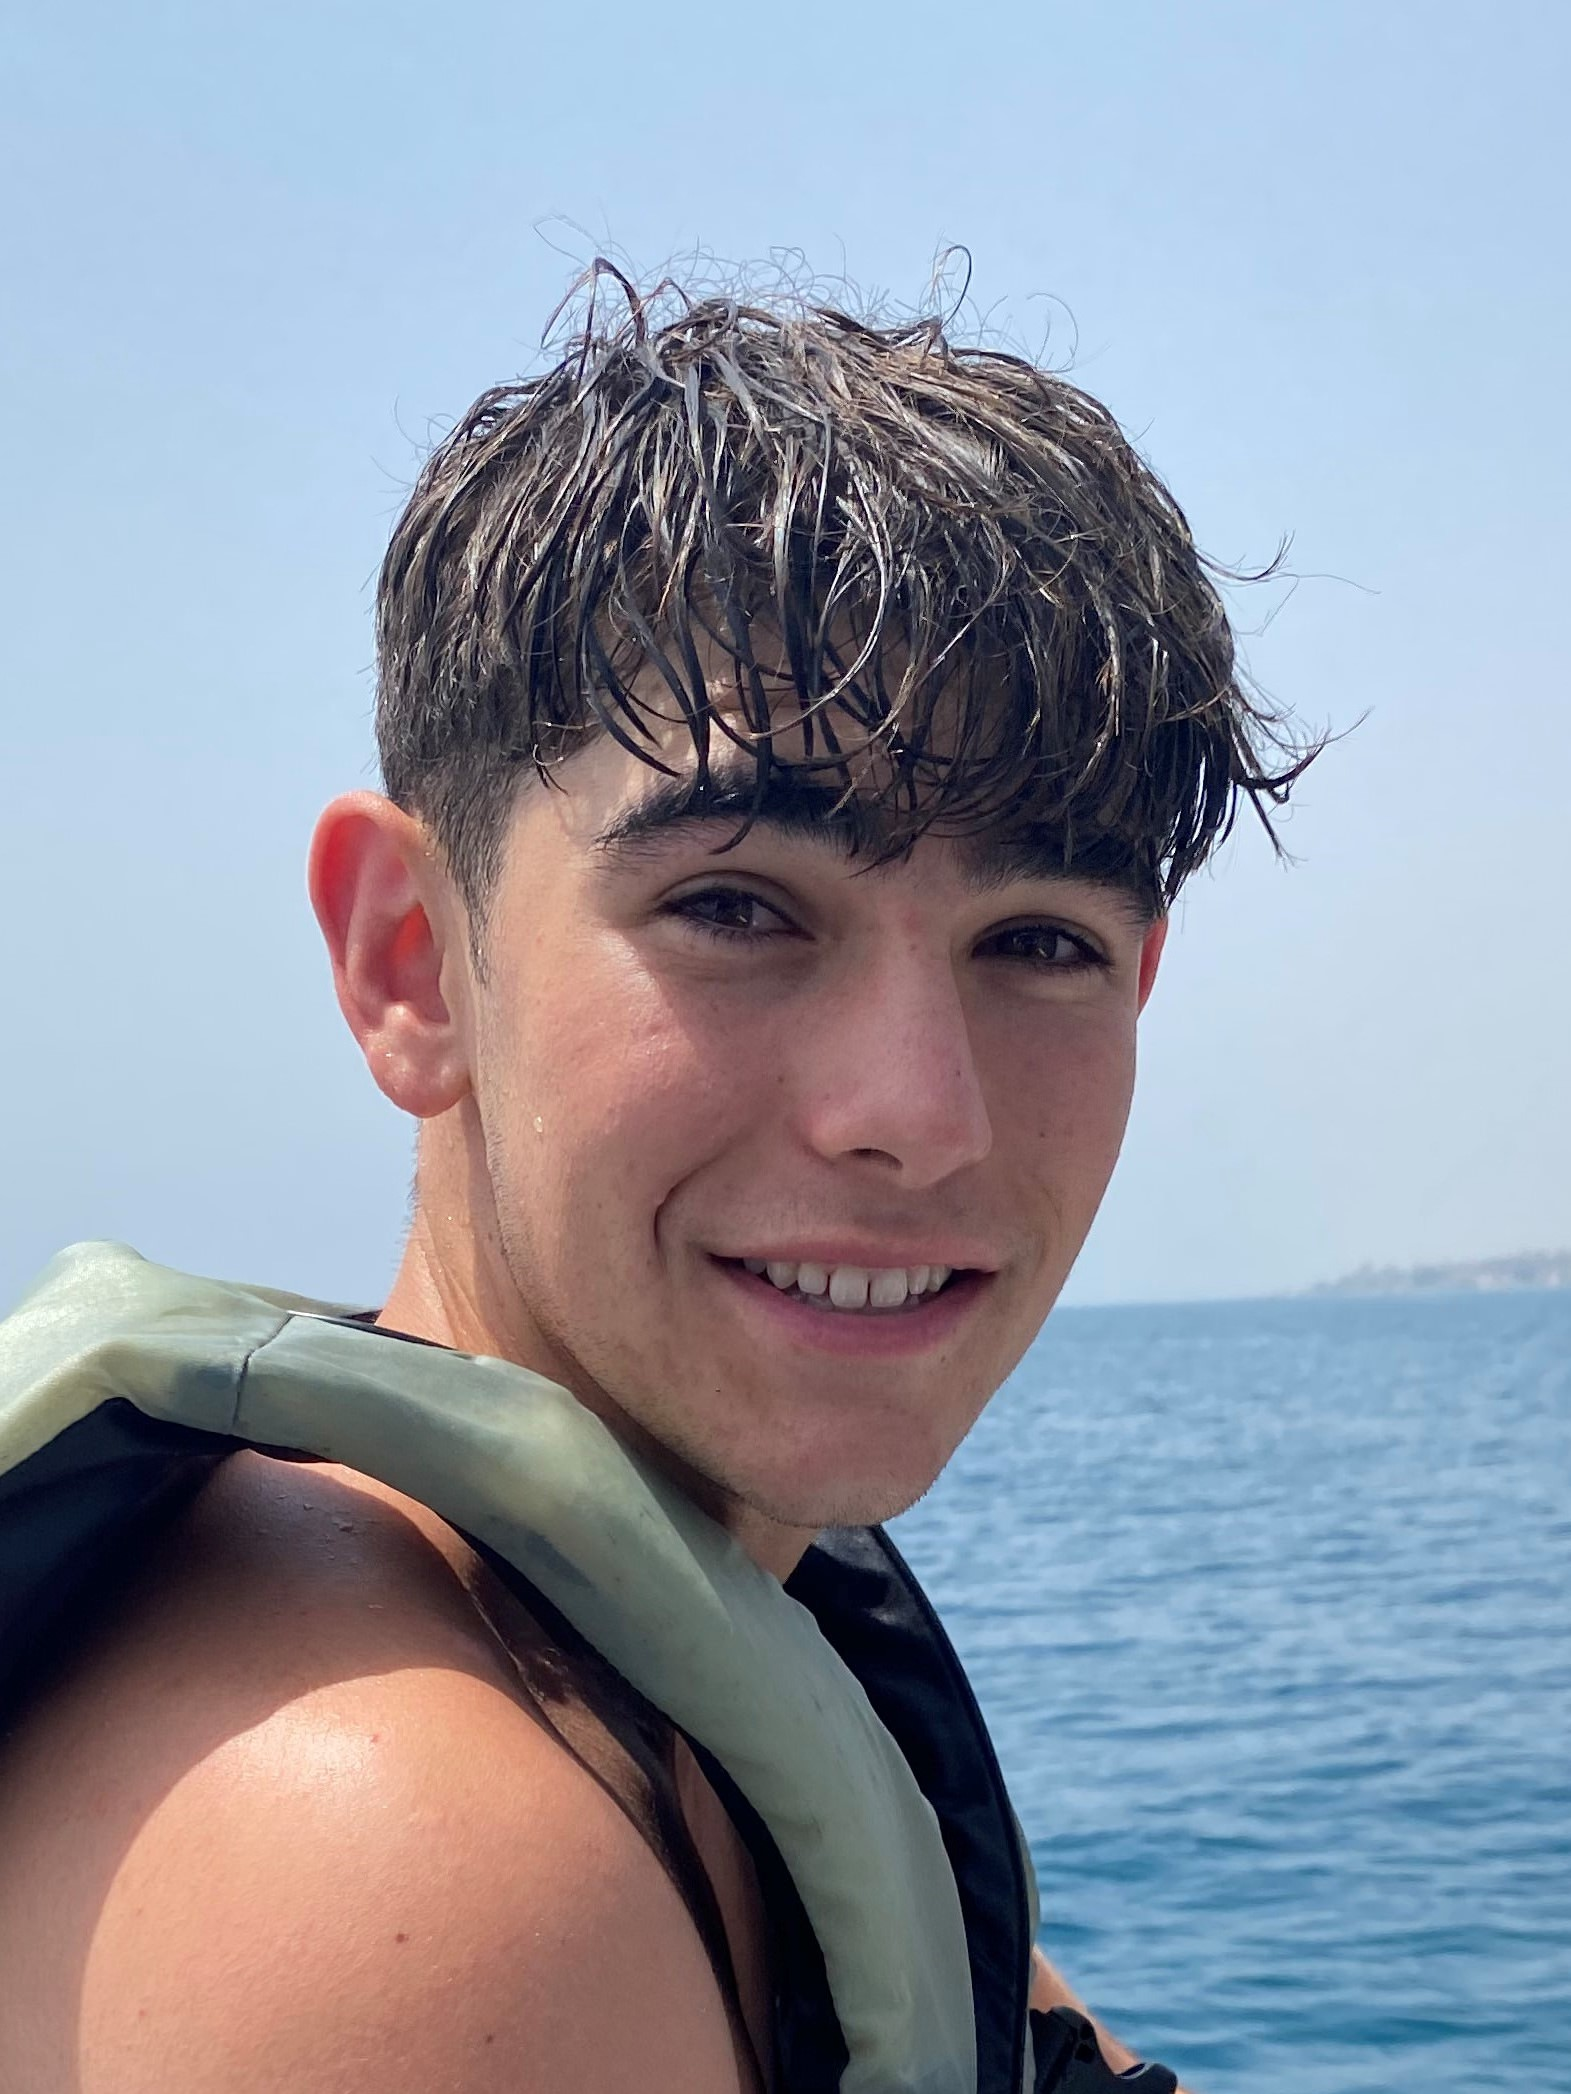
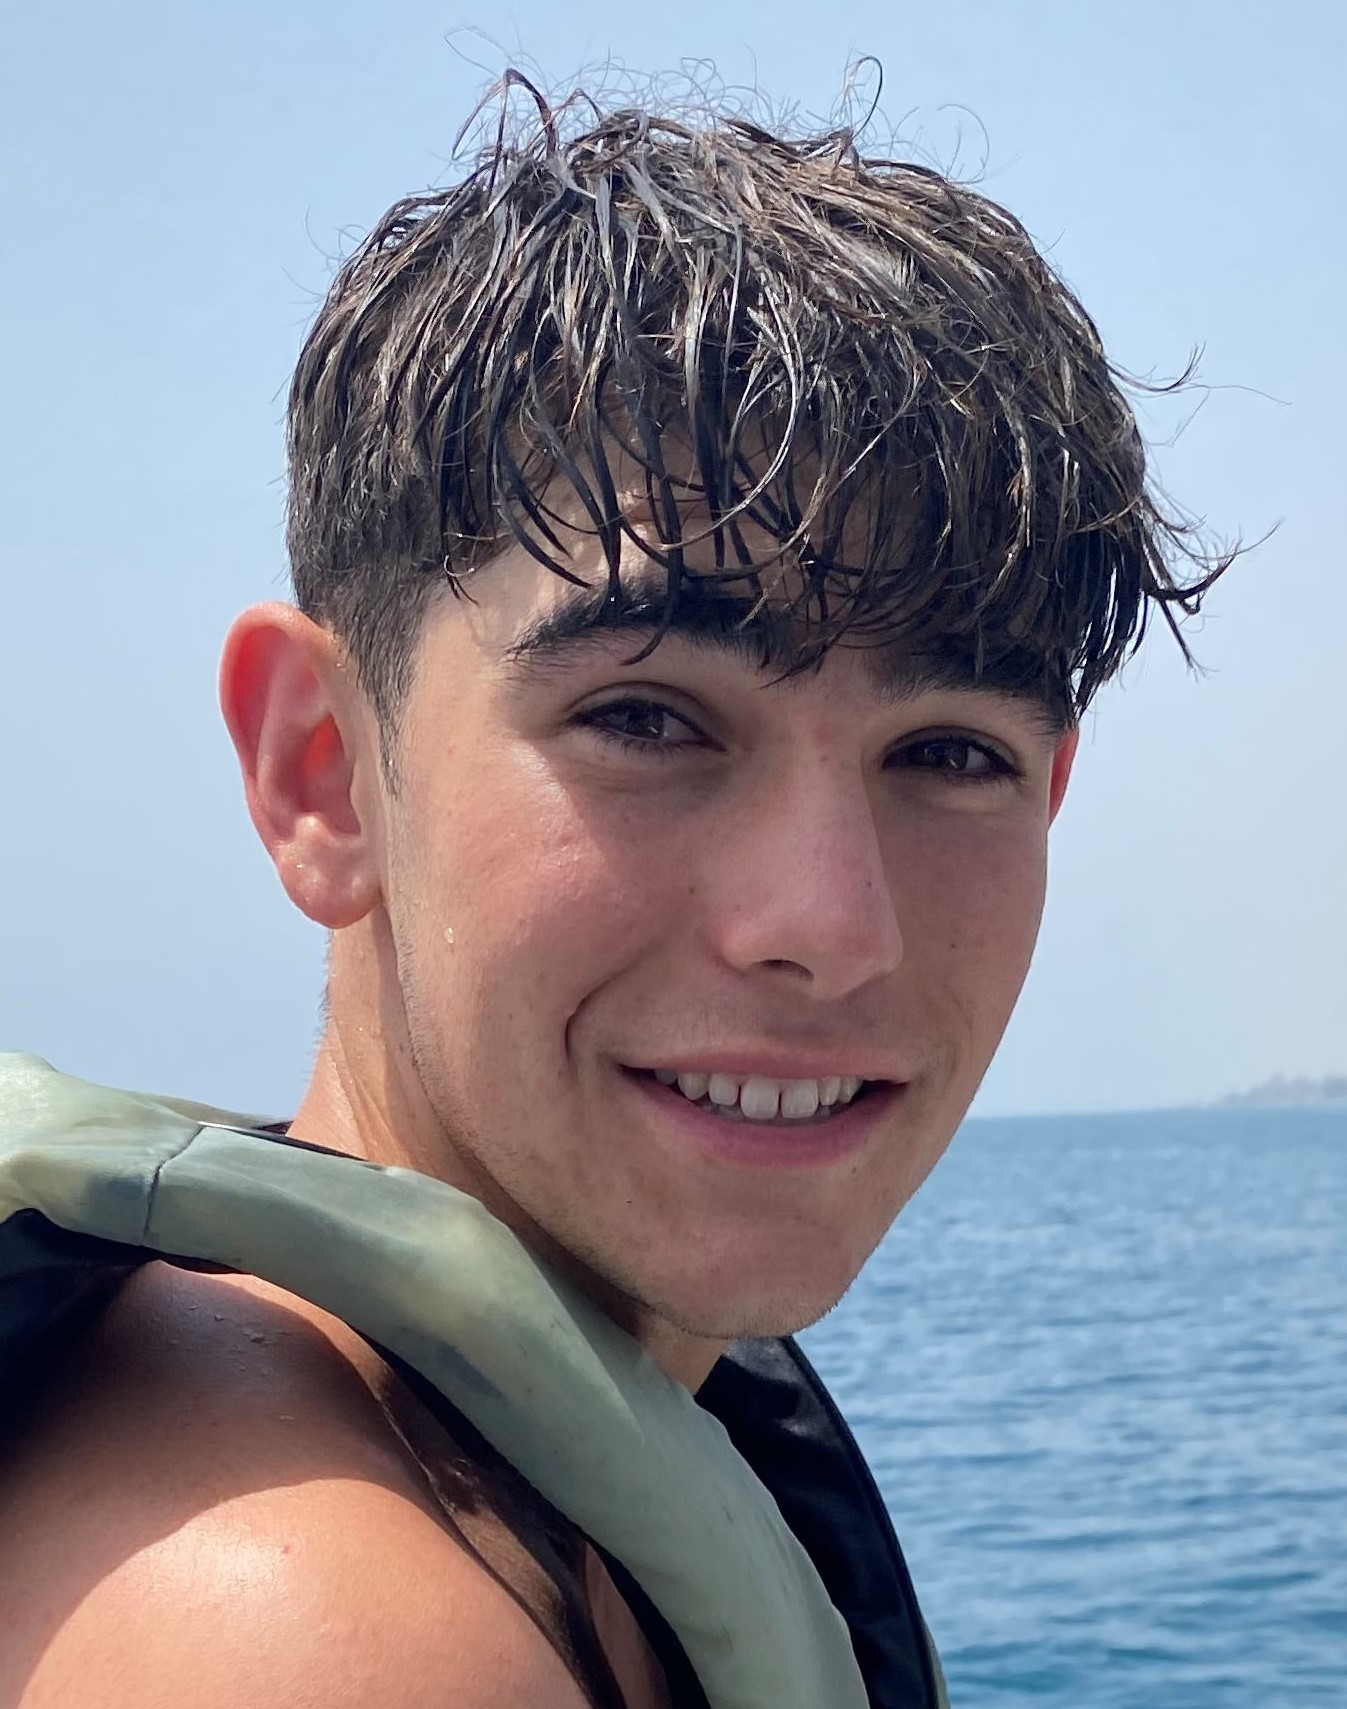
Changed wording and pictures are now webp

diff --git a/index.html b/index.html
@@ -66,8 +66,8 @@
       
     <!-- Header -->
     <header id="header" class="header">
-        <img class="decoration-star" src="client/assets/images/decoration-star.svg" alt="alternative">
-        <img class="decoration-star-2" src="client/assets/images/decoration-star.svg" alt="alternative">
+        <img class="decoration-star" src="client/assets/images/decoration-star.svg" alt="background decoration">
+        <img class="decoration-star-2" src="client/assets/images/decoration-star.svg" alt="background decoration">
         <div class="container">
             <div class="row">
                 <div class="col-lg-8 col-xl-7">
@@ -91,7 +91,7 @@
             <div class="row">
                 <div class="col-xl-9">
                     <h2>Who am I?</h2>
-                    <p>My name is Joshua Thompson and this personal portfolio website is my attempt to display all of my hobbies, interests and projects! I hope you find it interesting and would love to hear any great insights or queries at <i>joshua.thomspon@durham.ac.uk</i> </p>
+                    <p>My name is Joshua Thompson and this personal portfolio website is my attempt to display all of my hobbies, interests and projects! I hope you find it interesting and I would love to hear any great insights or queries at <i>joshua.thomspon@durham.ac.uk</i> </p>
                 </div> <!-- end of col -->
             </div> <!-- end of row -->
         </div> <!-- end of container -->
@@ -101,12 +101,12 @@
 
     <!-- Details 1 -->
     <div id="details" class="basic-2">
-        <img class="decoration-star" src="client/assets/images/decoration-star.svg" alt="alternative">
+        <img class="decoration-star" src="client/assets/images/decoration-star.svg" alt="background decoration">
         <div class="container">
             <div class="row">
                 <div class="col-lg-6 col-xl-5">
                     <div class="image-container">
-                        <img class="img-fluid rounded-3" src="client/assets/images/k-mitch-hodge-nnWG3Uulye4-unsplash.jpg" alt="alternative">
+                        <img class="img-fluid rounded-3" src="client/assets/images/k-mitch-hodge-nnWG3Uulye4-unsplash.webp" alt="Durham Cathedral">
                     </div> <!-- end of image-container -->
                 </div> <!-- end of col -->
                 <div class="col-lg-6 col-xl-7">
@@ -115,15 +115,15 @@
                         <ul class="list-unstyled li-space-lg">
                             <li class="d-flex">
                                 <i class="fas fa-square"></i>
-                                <div class="flex-grow-1">I am currently in my first year of University, studying a Joint Honours degree in <strong>Mathematics and Computer Science</strong> at <strong> Durham University</strong></div>
+                                <div class="flex-grow-1">I am currently in the first year of University, studying for a Joint Honours degree in <strong>Mathematics and Computer Science</strong> at <strong> Durham University.</strong></div>
                             </li>
                             <li class="d-flex">
                               <i class="fas fa-square"></i>
-                                <div class="flex-grow-1">I am on the Master's degree program, so my expected graduation date is 2026.</div>
+                                <div class="flex-grow-1">I am on the Master's degree program, and am expected to graduate in 2026.</div>
                             </li>
                             <li class="d-flex">
                                 <i class="fas fa-square"></i>
-                                <div class="flex-grow-1">I have particular interest in AI, mathematical modelling and the applied side of mathematics. I am intrigued in using technology for environmental/world good, such as green energy solutions and modelling of worldwide events. hence, I always favour an altruistic viewpoint with my decision-making.</div>
+                                <div class="flex-grow-1">Particular interests of mine include AI, mathematical modelling and the applied side of mathematics. I am intrigued in altruistic and sustainable uses for technology, such as green energy solutions and modelling of worldwide events. This philantrhopic desire is always apparent in my decision-making.</div>
                             </li>
                             <li class="d-flex">
                                 <i class="fas fa-square"></i>
@@ -131,7 +131,7 @@
                             </li>
                             <li class="d-flex">
                                 <i class="fas fa-square"></i>
-                                <div class="flex-grow-1">Further information about my education can be found on my <a href="https://www.linkedin.com/in/joshuamichaelthompson">LinkedIn</a> account</div>
+                                <div class="flex-grow-1">For further information about my educatio, vist my <a href="https://www.linkedin.com/in/joshuamichaelthompson">LinkedIn</a> account</div>
                             </li>
                         </ul>
                     </div> <!-- end of text-container -->
@@ -147,7 +147,7 @@
         <div class="container">
                     <div class="text-container">
                         <h2>Societies and Groups</h2>
-                        <h4>Sports that I play</h4>
+                        <h4>Sporting Pursuits</h4>
                         <ul class="list-unstyled li-space-lg">
                           <li class="d-flex">
                               <i class="fas fa-square"></i>
@@ -174,7 +174,7 @@
                                 <div class="flex-grow-1">Code Club</div>
                                 </li>
                                   <li class="d-flex">
-                                    <div class="flex-grow-1">Weekly sessions helping to teach children aged 8-14 to code</div>
+                                    <div class="flex-grow-1">Weekly sessions helping to improve 8-14 year old children's code skills</div>
                                   </li>
                             <li class="d-flex">
                                 <i class="fas fa-square"></i>
@@ -195,23 +195,23 @@
 
     <!-- Details 2 -->
     <div class="basic-3">
-        <img class="decoration-star" src="client/assets/images/decoration-star.svg" alt="alternative">
+        <img class="decoration-star" src="client/assets/images/decoration-star.svg" alt="background decoration">
         <div class="container">
             <div class="row">
                 <div class="col-lg-6 col-xl-7">
                     <div class="text-container">
                         <h2>Work Experience</h2>
                         <h5>Maths Tutor</h5>
-                        <p>During A levels, I did some GCSE tutoring for people local to me. This improved my ability to explain my thinking to students, and be patient.</p>
+                        <p>During A levels, I tutored many local GCSE students. This improved my patience and communication skills, which are both integral to the learning process.</p>
                         <h5>Work Experience at St James's Place</h5>
-                        <p>Here, I engaged with employees and set up several meetings in order to get an understanding of the financial advising business. I also visited the investing floor where I took a particular interest in ESG investing. I was able to have a meeting with Oisin Canney, who perked my interest in sustainable investing further; particularly in the view of agricultural technology</p>
+                        <p>Here, I engaged with employees and set up several meetings in order to get an understanding of the financial advising business. Visiting the investing floor left me enthused by ESG investing. I was able to meet a man named Oisin Canney, who peaked my interest in sustainable investing further; in particular, the use of modern agricultural technology</p>
                         <h5>Student Intern at OakNorth Bank</h5>
-                        <p>I took part in reading legal contracts and improved my analysis and high-level thinking skills. I also got to speak to a few software engineers who gave me some great insights into a day in the life of an engineer.</p>
+                        <p>I took part in reading legal contracts and improved my analysis and high-level thinking skills. This experience gave me the opportunity to speak to a few software engineers who gave me some great insights into a day in the life of an engineer.</p>
                       </div> <!-- end of text-container -->
                 </div> <!-- end of col -->
                 <div class="col-lg-6 col-xl-5">
                     <div class="image-container">
-                        <img class="img-fluid rounded-3" src="client/assets/images/Prefect Photo.jpg" alt="prefect Photo">
+                        <img class="img-fluid rounded-3" src="client/assets/images/Prefect-Photo.webp" alt="prefect Photo">
                     </div> <!-- end of image-container -->
                 </div> <!-- end of col -->
             </div> <!-- end of row -->
@@ -232,7 +232,7 @@
 
                     <!-- Card -->
                     <div class="card">
-                        <img class="img-fluid" src="client/assets/images/carson-masterson-0mXw-dvuLok-unsplash.jpg" alt="alternative">
+                        <img class="img-fluid" src="client/assets/images/carson-masterson-0mXw-dvuLok-unsplash.webp" alt="IBM logo">
                         <div class="card-body">
                             <h5 class="card-title">IBM Certificate</h5>
                             <p class="card-text">ML0101EN: Machine Learning with Python: A Practical Introduction <a class="blue no-line" href="https://courses.edx.org/certificates/6c1a4f0677634e18873d89234e1b8bd2">...View Certificate</a></p>
@@ -242,7 +242,7 @@
 
                     <!-- Card -->
                     <div class="card">
-                        <img class="img-fluid" src="client/assets/images/denise-jans-RQ0_Fp2Hr2M-unsplash.jpg" alt="alternative">
+                        <img class="img-fluid" src="client/assets/images/denise-jans-RQ0_Fp2Hr2M-unsplash.webp" alt="Piano keys photo">
                         <div class="card-body">
                             <h5 class="card-title">Grade 8 Classical Piano</h5>
                             <p class="card-text">Trinity College London - Merit</p>
@@ -252,7 +252,7 @@
 
                     <!-- Card -->
                     <div class="card">
-                        <img class="img-fluid" src="client/assets/images/nikhil-ez16JEglfAo-unsplash.jpg" alt="alternative">
+                        <img class="img-fluid" src="client/assets/images/nikhil-ez16JEglfAo-unsplash.webp" alt="Pretty light display">
                         <div class="card-body">
                             <h5 class="card-title">Devpost Projects</h5>
                             <p class="card-text">Projects I have done from Hackathons <a class="blue no-line" href="https://devpost.com/JOSHMT0744">...View in browser</a></p>
@@ -267,13 +267,13 @@
 
     <!-- Contact -->
     <div id="contact" class="form-1">
-        <img class="decoration-star" src="client/assets/images/decoration-star.svg" alt="alternative">
-        <img class="decoration-star-2" src="client/assets/images/decoration-star.svg" alt="alternative">
+        <img class="decoration-star" src="client/assets/images/decoration-star.svg" alt="background decoration">
+        <img class="decoration-star-2" src="client/assets/images/decoration-star.svg" alt="background decoration">
         <div class="container">
             <div class="row">
                 <div class="col-lg-6">
                     <div class="image-container">
-                        <img class="img-fluid rounded-3" src="client/assets/images/hockey field.jpg" alt="alternative">
+                        <img class="img-fluid rounded-3" src="client/assets/images/hockey-field.webp" alt="alternative">
                     </div> <!-- end of image-container -->
                 </div> <!-- end of col -->
                 <div class="col-lg-6">
